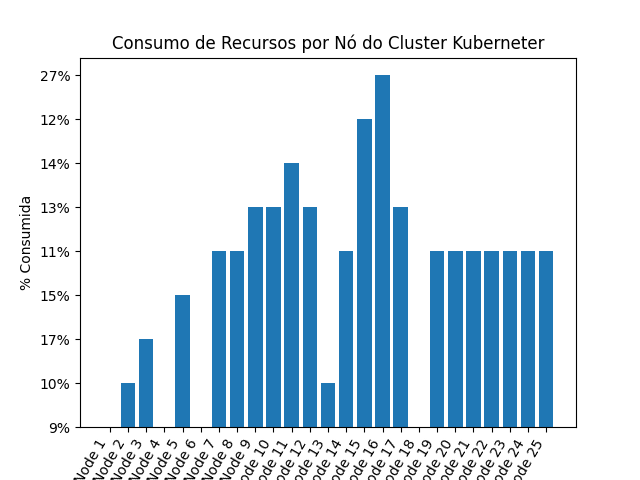
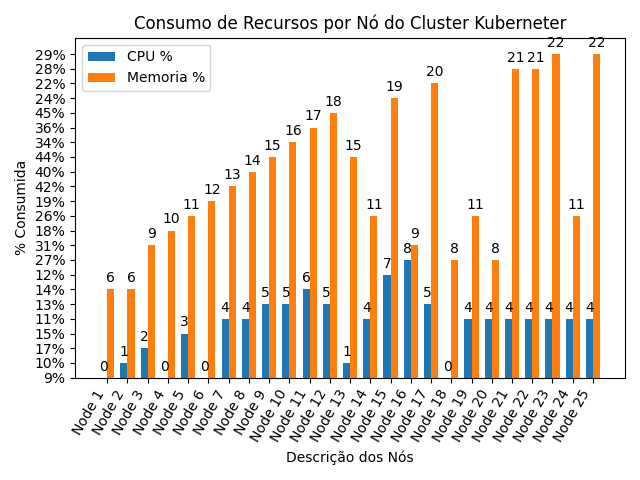
Add memory bar graph

diff --git a/performance-analysis/graphics/plot_nodes.py b/performance-analysis/graphics/plot_nodes.py
@@ -2,6 +2,8 @@ import pandas as pd
 import matplotlib as mlp 
 import matplotlib.pyplot as plt
 import os
+import numpy as np
+
 
 os.chdir('performance-analysis/graphics/')
 
@@ -9,11 +11,33 @@ dataframe_CPU = pd.read_csv('Node_CPU.csv',  delimiter=';', header=0)
 dataframe_MEM = pd.read_csv('Node_MEM.csv',  delimiter=';', header=0)
 print(dataframe_CPU)
 
+
+x = np.arange(len(dataframe_CPU['Node Number']))
+width = 0.35  # the width of the bars
 fig, ax = plt.subplots()
-ax.bar (dataframe_CPU['Node Number'], dataframe_CPU['Media'])
-ax.set_xticklabels(dataframe_CPU['Node Number'], rotation= 60, horizontalalignment= 'right')
-ax.set_title("Consumo de Recursos por Nó do Cluster Kuberneter")
+rects1 = ax.bar(x - width/2, dataframe_CPU['Media'], width, label='CPU %')
+rects2 = ax.bar(x + width/2, dataframe_MEM['Media'], width, label='Memoria %')
 ax.set_ylabel("% Consumida")
 ax.set_xlabel("Descrição dos Nós")
+ax.set_xticks(x)
+ax.set_xticklabels(dataframe_CPU['Node Number'], rotation= 60, horizontalalignment= 'right')
+ax.legend()
+
+def autolabel(rects):
+    """Attach a text label above each bar in *rects*, displaying its height."""
+    for rect in rects:
+        height = rect.get_height()
+        ax.annotate('{}'.format(f'{height:.0f}'),
+                    xy=(rect.get_x() + rect.get_width() / 2, height),
+                    xytext=(0, 3),  # 3 points vertical offset
+                    textcoords="offset points",
+                    ha='center', va='bottom')
+
+autolabel(rects1)
+autolabel(rects2)
+fig.tight_layout()
+plt.title("Consumo de Recursos por Nó do Cluster Kubernetes")
+plt.tight_layout()
 plt.savefig('out/Nodes_Resources.png')
-#plt.show()
+plt.show()
+plt.clf()
